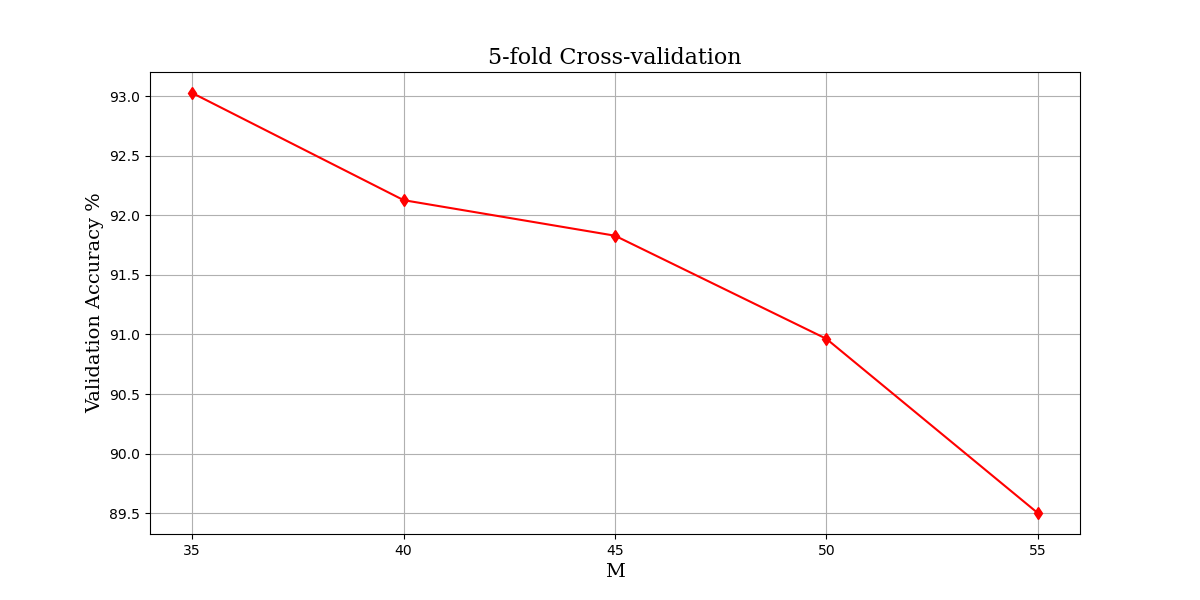
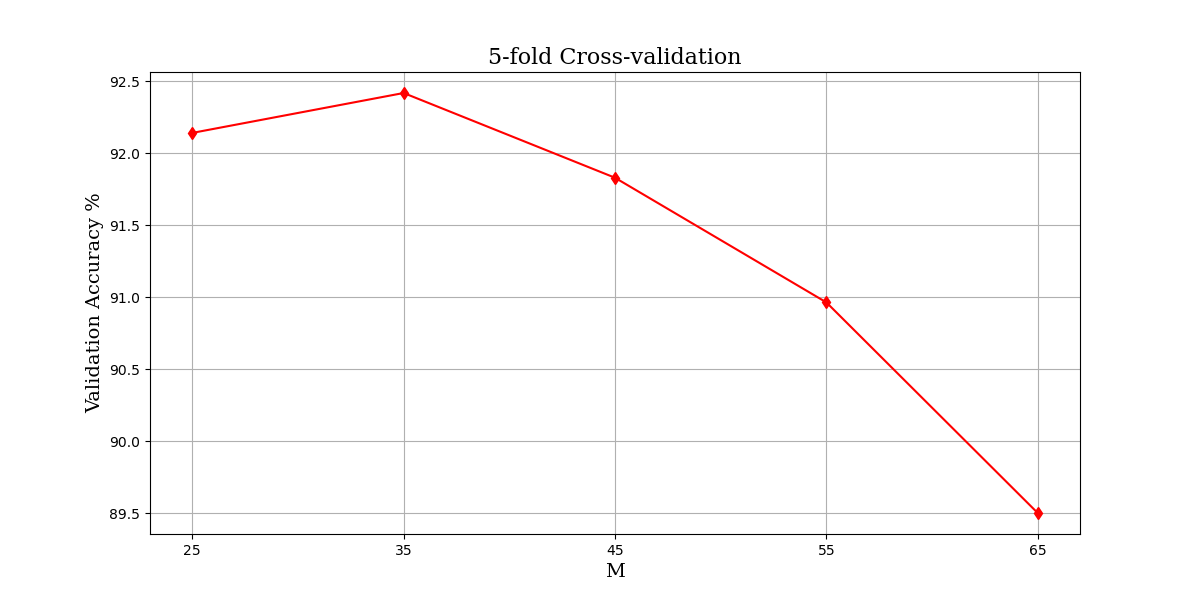
hw3 update plot + remove use of import DecisionTree

diff --git a/hw3/AI_HW3_CODE/ID3/ID3_experiments.py b/hw3/AI_HW3_CODE/ID3/ID3_experiments.py
@@ -4,7 +4,7 @@ from utils import *
 """
 Make the imports of python packages needed
 """
-from DecisonTree import *
+
 
 """
 ========================================================================
@@ -74,7 +74,7 @@ def basic_experiment(x_train, y_train, x_test, y_test, formatted_print=False):
     acc = None
 
     # ====== YOUR CODE: ======
-    labels = list(unique_vals(y_train, 0))
+    labels = list(set(y_train))
     id3_dt = ID3(labels)
     id3_dt.fit(x_train, y_train)
     y_predictions = id3_dt.predict(x_test)
@@ -105,7 +105,7 @@ def cross_validation_experiment(plot_graph=True):
     num_folds = 5
 
     # ====== YOUR CODE: ======
-    m_choices = [35, 40, 45, 50, 55]
+    m_choices = [25, 35,  45, 55, 65]
     assert len(m_choices) >= 5, 'fill the m_choices list with  at least 5 different values for M.'
 
     best_m, accuracies = find_best_pruning_m(train_dataset=train_dataset, m_choices=m_choices, num_folds=num_folds)
@@ -142,7 +142,7 @@ def best_m_test(x_train, y_train, x_test, y_test, min_for_pruning):
     acc = None
 
     # ====== YOUR CODE: ======
-    labels = list(unique_vals(y_train, 0))
+    labels = list(set(y_train))
     id3_prune = ID3(labels, min_for_pruning=min_for_pruning)
     id3_prune.fit(x_train, y_train)
     y_predictions = id3_prune.predict(x_test)
